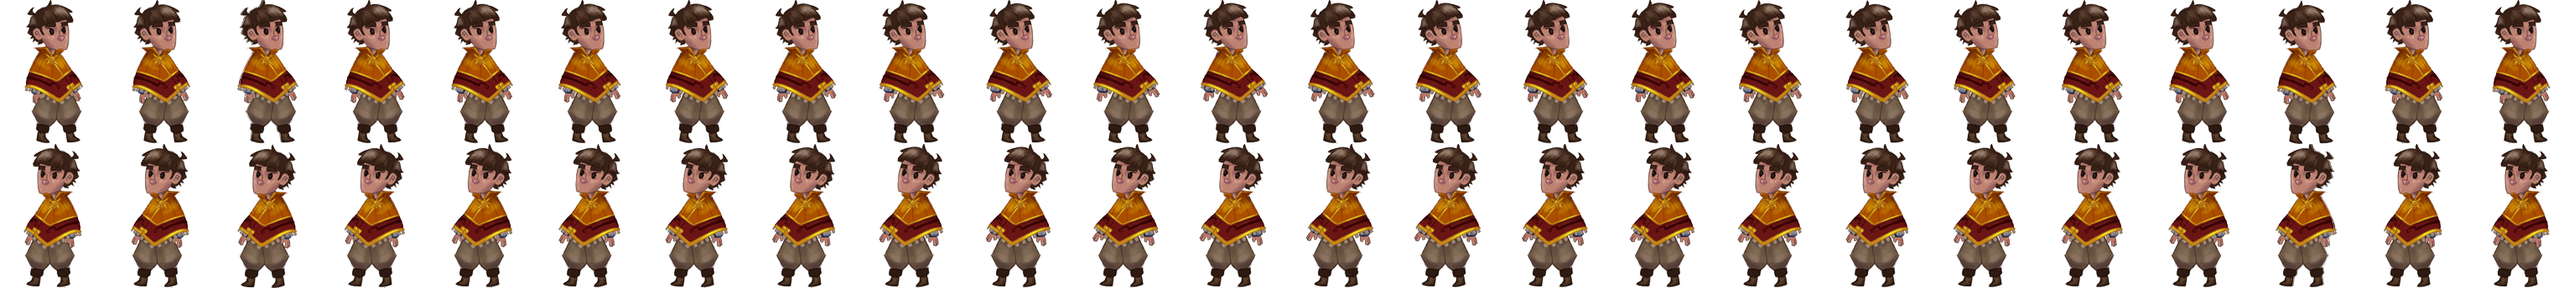
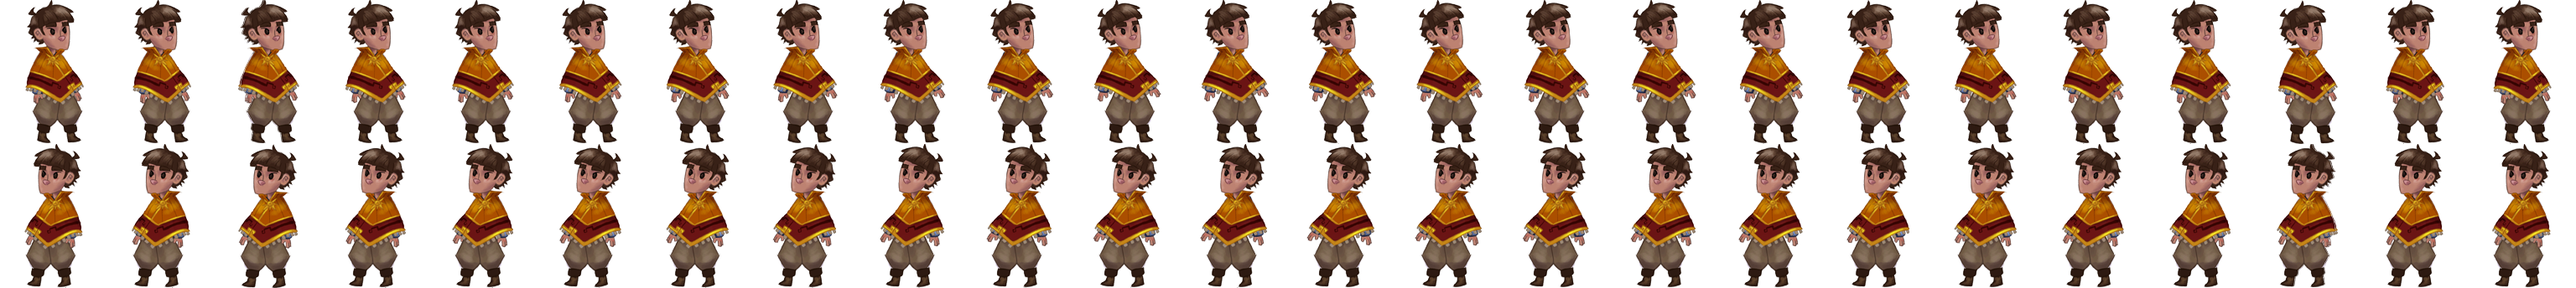
Corrigindo Inti idle

diff --git a/terracota/src/inti.cpp b/terracota/src/inti.cpp
@@ -37,7 +37,7 @@ class Idle : public SpriteState
 public:
     Idle(Inti *inti)
         : m_inti(inti), m_animation(new Animation("res/images/characters/inti/idle_1.png",
-            0, 0, 127, 172, 24, 50, true)), m_left(0), m_right(0), m_up(0), m_down(0), m_attack(0), m_interacting(0)
+            0, 0, 128, 172, 24, 50, true)), m_left(0), m_right(0), m_up(0), m_down(0), m_attack(0), m_interacting(0)
     {
     }
 
